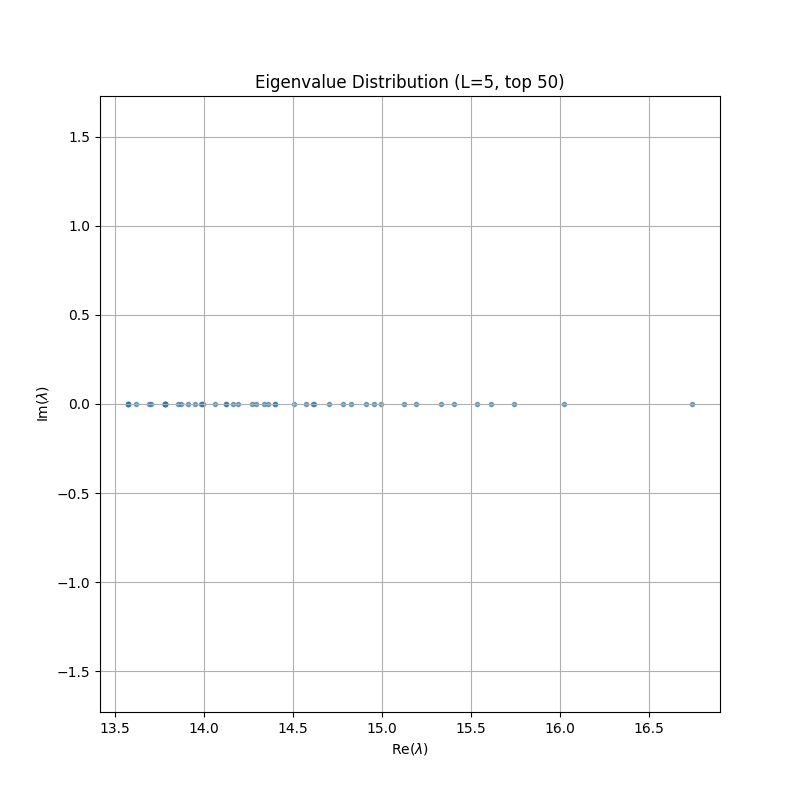
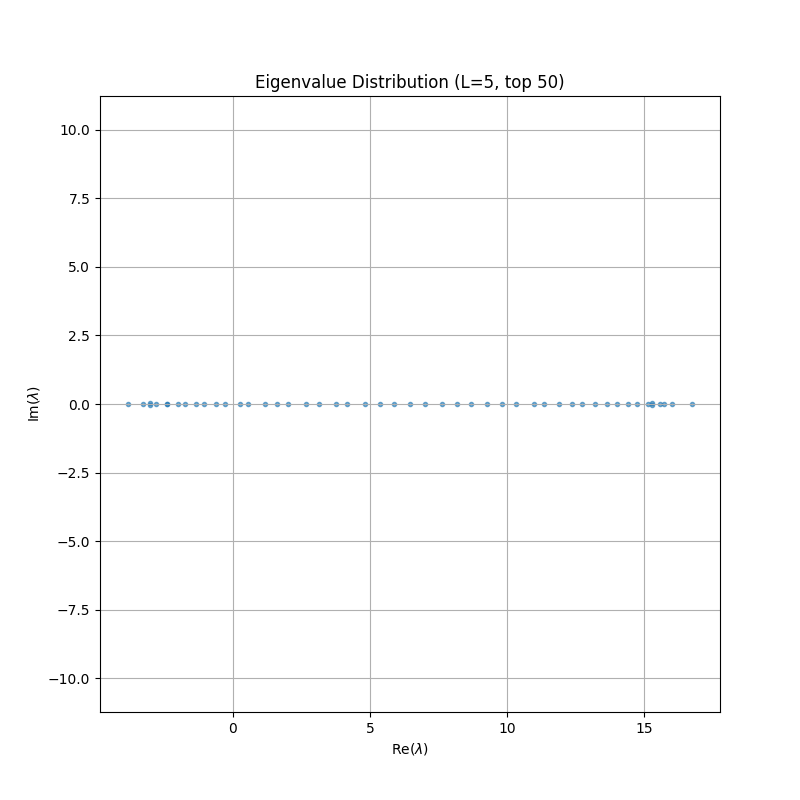
Implement matrix-free Arnoldi method and finite-size scaling
This change modifies `sl3_hecke.py` to implement the Arnoldi method "by hand" without constructing the full sparse matrix for the operator H = sum(e_i). Instead, the action of H is computed on the fly by applying the generators e_i to the vector. The `arnoldi_iteration` method generates the Krylov subspace and Hessenberg matrix manually.
`scaling_analysis.py` is updated to use this custom Arnoldi implementation for finite-size scaling analysis of the leading eigenvalue across system sizes L=2, 3, 4, 5, estimating the central charge c.

diff --git a/sl3_hecke.py b/sl3_hecke.py
@@ -1,8 +1,8 @@
-
 import numpy as np
 from scipy.sparse import dok_matrix, csr_matrix
-from scipy.sparse.linalg import eigs
+from scipy.linalg import eig, hessenberg, norm
 import random
+import time
 
 class Polynomial:
     def __init__(self, coeffs=None):
@@ -267,57 +267,140 @@ class Sl3HeckeArnoldi:
         self.basis_strings = generate_all_valid_strings(L)
         self.dim = len(self.basis_strings)
         self.string_to_idx = {tuple(s): i for i, s in enumerate(self.basis_strings)}
-        self.H_matrix = None
 
-    def build_matrix(self):
-        print(f"Building H matrix for L={self.L} (dim={self.dim})...")
-        mat = dok_matrix((self.dim, self.dim), dtype=complex)
+        # Caching e operations for performance (optional, but good for "by hand" iteration if repeated)
+        # But to be truly matrix-free, we shouldn't precompute matrix entries,
+        # but maybe we can cache individual e_k(s) results if memory allows.
+        # Given "H is very sparse so we do not need to know all the entries to do Arnoldi method. Rather, let's do Arnoldi 'by hand' without resorting to existing programs",
+        # I will implement applying H(v) on the fly.
+        self.e_cache = {}
 
-        # H = sum_{k=1 to 3L-1} e_k
+    def apply_H(self, v):
+        """
+        Apply H = sum e_i to a dense vector v on the fly.
+        v: numpy array of shape (dim,)
+        Returns: H * v
+        """
+        # Output vector
+        w = np.zeros(self.dim, dtype=complex)
+
+        # H is sum of e_k for k=1..3L-1
         num_generators = 3 * self.L - 1
 
+        # Iterate over non-zero elements of v?
+        # v is likely dense in Arnoldi. So iterate over all basis elements i.
+        # If v[i] is small, maybe skip? No, explicit loop over basis.
+
+        # Optimization: H is sum of e_k. Applying e_k to basis element s gives a linear combination of basis elements.
+        # w = sum_i v[i] * H(s_i)
+        #   = sum_i v[i] * sum_k e_k(s_i)
+
+        # This is essentially matrix-vector multiplication where matrix is implicit.
+        # To make this fast, we can cache the result of H(s_i).
+        # H(s_i) is a sparse vector (list of (coeff, index)).
+
         for idx, s in enumerate(self.basis_strings):
-            for k in range(1, num_generators + 1):
-                res_pairs = e([(1, s)], k)
-                for coeff, res_s in res_pairs:
-                    if isinstance(coeff, Polynomial):
-                        val = coeff.evaluate(self.n_value)
-                    else:
-                        val = coeff
+            coeff_v = v[idx]
+            if abs(coeff_v) < 1e-12: continue
 
-                    res_idx = self.string_to_idx.get(tuple(res_s))
-                    if res_idx is not None:
-                        mat[res_idx, idx] += val
+            # Apply H to s: sum_k e_k(s)
+            # Check cache
+            s_tuple = tuple(s)
+            if s_tuple in self.e_cache:
+                h_s_results = self.e_cache[s_tuple]
+            else:
+                h_s_results = [] # List of (val, target_idx)
+                for k in range(1, num_generators + 1):
+                    res_pairs = e([(1, s)], k)
+                    for c, res_s in res_pairs:
+                        if isinstance(c, Polynomial):
+                            val = c.evaluate(self.n_value)
+                        else:
+                            val = c
 
-        self.H_matrix = mat.tocsr()
-        print("Matrix build complete.")
+                        res_idx = self.string_to_idx.get(tuple(res_s))
+                        if res_idx is not None:
+                            h_s_results.append((val, res_idx))
 
-    def run_arnoldi(self, k=6, which='LM'):
-        if self.H_matrix is None:
-            self.build_matrix()
+                # Cache it? If L is large, cache might grow.
+                # For L=5, dim=6006. 6006 entries in cache. Each entry is a list of ~few terms.
+                # This is manageable.
+                self.e_cache[s_tuple] = h_s_results
 
-        print(f"Running Arnoldi method to find {k} eigenvalues...")
-        vals, vecs = eigs(self.H_matrix, k=k, which=which)
-        return vals
+            # Add contribution to w
+            for val, target_idx in h_s_results:
+                w[target_idx] += coeff_v * val
+
+        return w
+
+    def arnoldi_iteration(self, k, start_vector_idx=None):
+        """
+        Run Arnoldi iteration manually.
+        k: Number of Krylov vectors (dimension of Hessenberg matrix)
+        start_vector_idx: Index of basis string to start with (default: random or 0)
+        """
+        print(f"Running custom Arnoldi iteration (k={k})...")
+
+        # Q matrix (orthogonal basis vectors)
+        Q = np.zeros((self.dim, k + 1), dtype=complex)
+        # H matrix (Hessenberg)
+        h = np.zeros((k + 1, k), dtype=complex)
+
+        # Start vector
+        if start_vector_idx is None:
+            # Use a random basis string as requested, or just index 0
+            # "We just begin with a vector v, which is a basis_string"
+            # Random basis string index
+            start_vector_idx = random.randint(0, self.dim - 1)
+
+        print(f"Starting with basis vector index {start_vector_idx}")
+        Q[start_vector_idx, 0] = 1.0 # Normalized since it's a basis vector
+
+        for j in range(k):
+            # w = A * q_j
+            v_j = Q[:, j]
+            w = self.apply_H(v_j)
+
+            # Orthogonalize
+            for i in range(j + 1):
+                # h_{i,j} = q_i^H * w
+                h[i, j] = np.vdot(Q[:, i], w)
+                w = w - h[i, j] * Q[:, i]
+
+            # Norm
+            norm_w = np.linalg.norm(w)
+            h[j + 1, j] = norm_w
+
+            if norm_w < 1e-12: # Breakdown
+                print("Arnoldi breakdown (invariant subspace found)")
+                return h[:j+1, :j+1]
+
+            if j < k:
+                Q[:, j + 1] = w / norm_w
+
+        # Remove the last row of h (which is for the next vector) to get the square Hessenberg matrix
+        # Usually eigenvalues are computed from the square k x k part.
+        # But we computed k+1 rows.
+        # The eigenvalues of the projection are from h[:k, :k].
+
+        return h[:k, :k]
 
 if __name__ == "__main__":
-    # Test with L=2 (dim is small) first, then maybe L=3 or 4
-    # User asked for "valid strings of length 3L".
-    # In notebook: generate_all_valid_strings(4) produced 12 sites (3*4). So L=4 means 12 sites.
-    # Notebook ran tests on L=4.
-
-    # Let's try L=3 (9 sites) first as a quick test.
     L_test = 3
-    # n value? q + 1/q. Let's pick q = 1, so n = 2.
-    # Or q = exp(i*pi/3)?
-    # User said "C(q)-vector space". Since we need numerical values, I'll choose a generic q.
-    # q = 2 (so n = 2.5) to avoid roots of unity issues unless desired.
-    # Let's use n=2 (q=1) for simplicity as a start, or a complex number.
-    n_val = 2.0
+    n_val = 1.0
 
     solver = Sl3HeckeArnoldi(L=L_test, n_value=n_val)
-    eigenvalues = solver.run_arnoldi(k=min(10, solver.dim - 2))
 
-    print(f"Eigenvalues for L={L_test}, n={n_val}:")
-    for val in eigenvalues:
+    # Run Arnoldi
+    k_arnoldi = min(20, solver.dim)
+    hessenberg_mat = solver.arnoldi_iteration(k=k_arnoldi)
+
+    # Compute eigenvalues of Hessenberg matrix
+    eigenvalues = np.linalg.eigvals(hessenberg_mat)
+
+    # Sort by magnitude
+    eigenvalues = sorted(eigenvalues, key=abs, reverse=True)
+
+    print(f"Top eigenvalues for L={L_test}, n={n_val}:")
+    for val in eigenvalues[:10]:
         print(val)

diff --git a/scaling_analysis.py b/scaling_analysis.py
@@ -1,4 +1,3 @@
-
 import numpy as np
 import matplotlib.pyplot as plt
 from scipy.optimize import curve_fit
@@ -24,10 +23,14 @@ def analyze_scaling(L_values, n_value):
             solver = Sl3HeckeArnoldi(L=L, n_value=n_value)
             print(f"  Dimension of space: {solver.dim}")
 
-            k = min(50, solver.dim - 2)
-            if k < 1: k = 1
+            k_arnoldi = min(50, solver.dim - 2)
+            if k_arnoldi < 1: k_arnoldi = 1
 
-            eigenvalues = solver.run_arnoldi(k=k, which='LM')
+            # Use custom Arnoldi iteration
+            hessenberg_mat = solver.arnoldi_iteration(k=k_arnoldi)
+
+            # Compute eigenvalues of Hessenberg matrix
+            eigenvalues = np.linalg.eigvals(hessenberg_mat)
             eigenvalues_by_L[L] = eigenvalues
 
             # Sort by magnitude descending
@@ -51,8 +54,8 @@ def analyze_scaling(L_values, n_value):
 
         except Exception as e:
             print(f"  Error processing L={L}: {e}")
-            # import traceback
-            # traceback.print_exc()
+            import traceback
+            traceback.print_exc()
 
     # Scaling Fit
     if len(f_L_values) >= 2:
@@ -116,10 +119,6 @@ def analyze_scaling(L_values, n_value):
         print("Not enough data points for fit.")
 
 if __name__ == "__main__":
-    # L=5 added. Note: dim for L=5 is 5810 (found via OEIS A000000 or logic? 462 * ?).
-    # Catalan numbers logic?
-    # Actually for sl3 it's generalized Catalan.
-    # L=5 might be around 6000. It should be fine.
     L_range = [2, 3, 4, 5]
     n_val = 1.0
 
